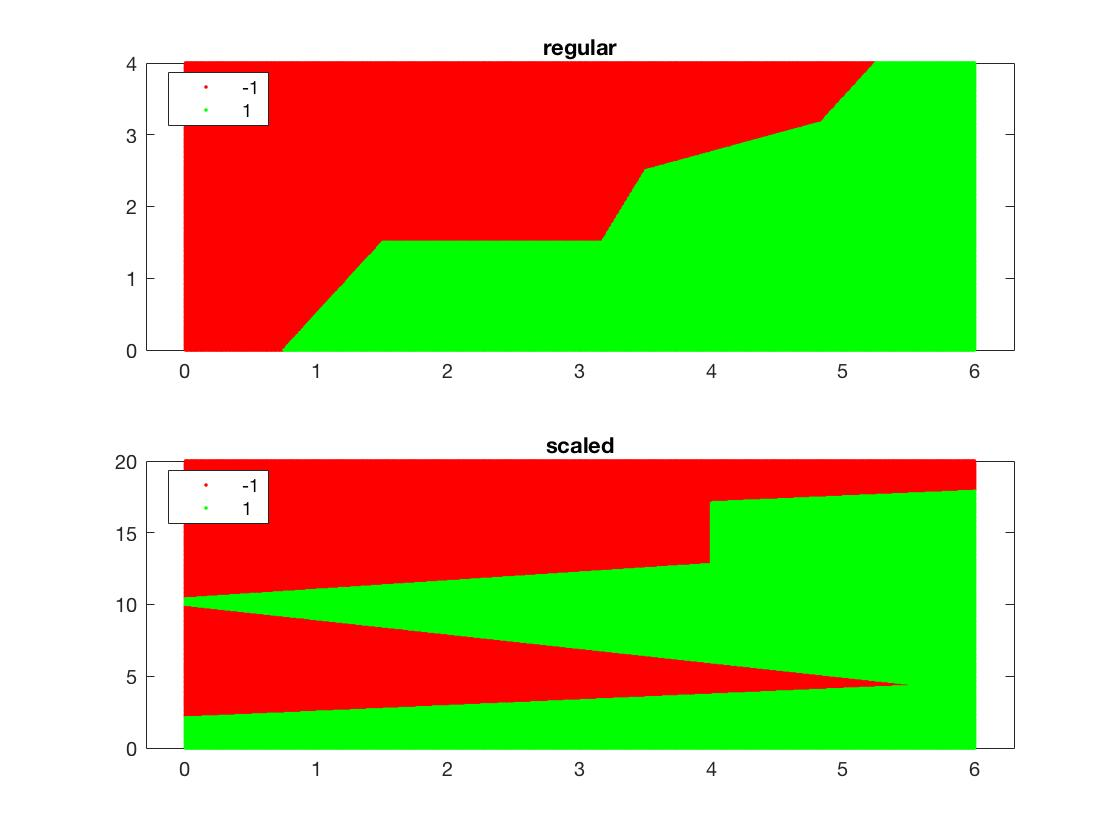
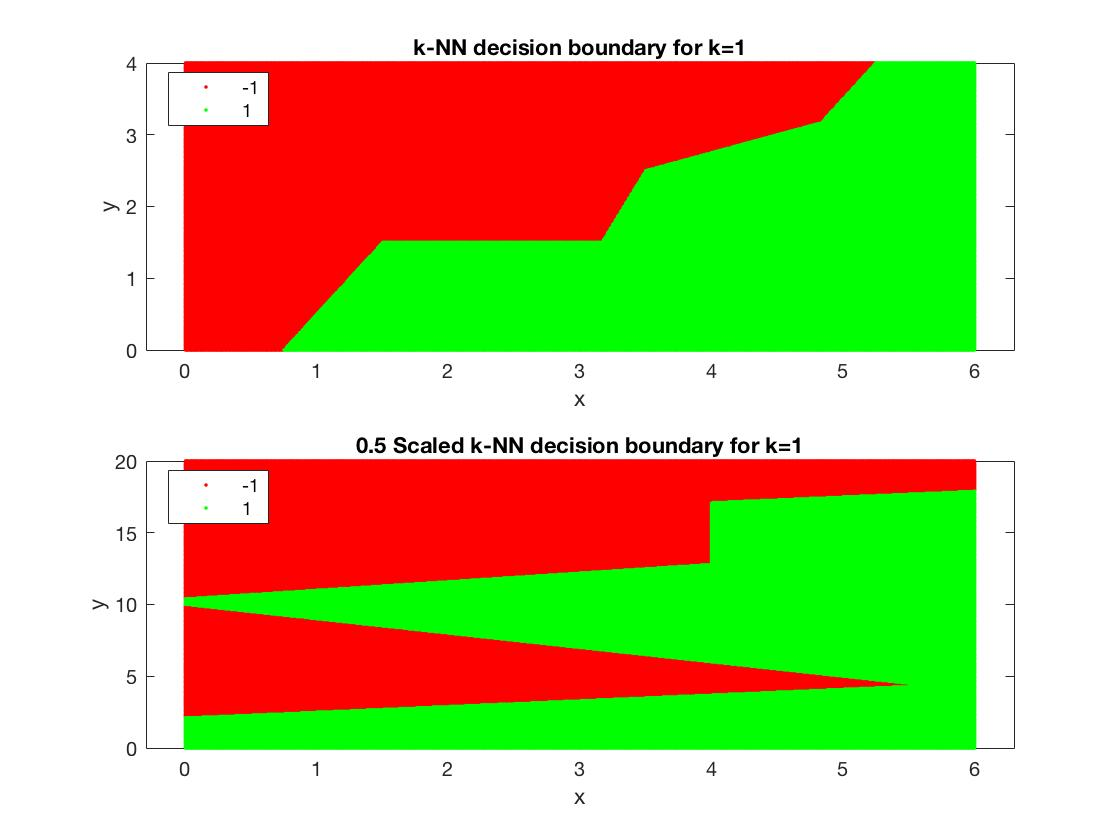
AHHHHHH

Changed region(s): [[0.3125, 0.4952, 0.7188, 0.5571], [0.375, 0.031, 0.6562, 0.0929]]

diff --git a/hw4/HW4.tex b/hw4/HW4.tex
@@ -69,9 +69,9 @@
 \begin{figure}[H]
 \includegraphics[scale=0.4]{image2.jpg} 
 \end{figure}
-\item (c) The differences between 1v3 and 3v5 for the adaboost model is that 1v3 resulted in lower test and training error by a scale of about 0.5.  This may also tie back to how 1v3 is considered easier to learn than 3v5 and therefore performing better. Specifically considering the adaboost algorithm, the training error for 3v5 appears to be on a steeper incline and this may be due to the fact that 3v5 was harder to learn, causing the algorithm to give more weight to inputs that are difficult to predict correctly and resulting in what we see in the plots. 
-\\\\Tying into this we can see that as the number of weak learners increases, the training error for 1v3 appears to remain stable if not very slightly decreasing for later learners as it oscillates. This could probably be attributed to how later learners in general have lower error as the upper bound for error decreases by a factor of 2 at each iteration because of $Z_t$ normalization. On the other hand for 3v5, as the number of weak learner increases, the training error almost appears to increase even for later learners. Going back to how 3v5 is a more difficult problem, it is possible that adaboost had to account for noisier training data which in turn may have resulted in the increased weights of "problem" points and then the mislabeling of good samples, although the use of importance ($\alpha$) may have helped to alleviate this issue.
-As for the generalization of adaboost as the number of weak learners increases, we can observe that it is quite good since the test error very rapidly goes down and appears to almost converge (plateau) before 20 weak learners. This could be due to the nature of using ensemble learning and aggregating the results of more and more weak learners, which naturally perform poorly by themselves, but much better when combined as they "boost" the accuracy of the learning model as bias is reduced. Hence we can expect $E_out$ to be low.
+\item (c) The differences between 1v3 and 3v5 for the adaboost model is that 1v3 resulted in lower test and training error by a scale of about 0.5.  This may also tie back to how 1v3 is considered easier to learn than 3v5 and therefore performing better. Specifically considering the adaboost algorithm, the training error for 3v5 appears to be on a steeper decline and this may be due to the fact that 3v5 was harder to learn, causing the algorithm to give more weight to inputs that are difficult to predict correctly and resulting in what we see in the plots. 
+\\\\Tying into this we can see that as the number of weak learners increases, the training error for 1v3 appears to decreasing for later learners, hitting 0 before 10 learners. This could probably be attributed to how later learners in general have lower error as the upper bound for error decreases by a factor of 2 at each iteration because of $Z_t$ normalization. On the other hand for 3v5, as the number of weak learner increases, the training error takes a while to reach 0. Going back to how 3v5 is a more difficult problem, it is possible that adaboost had to account for noisier training data which in turn may have resulted in the increased weights of "problem" points and then the mislabeling of good samples, although the use of importance ($\alpha$) may have helped to alleviate this issue.
+As for the generalization of adaboost as the number of weak learners increases, we can observe that it is quite good since the test error very rapidly goes down and appears to almost converge (plateau) before 20 weak learners. This could be due to the nature of using ensemble learning and aggregating the results of more and more weak learners, which naturally perform poorly by themselves, but much better when combined as they "boost" the accuracy of the learning model as bias is reduced. Hence we can expect $E_{out}$ to be low.
 
 \end{description}
 
@@ -81,7 +81,7 @@ As for the generalization of adaboost as the number of weak learners increases, 
 \begin{figure}[H]
 \includegraphics[scale=0.4]{image3.jpg} 
 \end{figure}
-	\item (c) 
+	\item (c) Scaling the $x_2$ coordinate by 5 skewed the divide by a lot along the $x_1$ dimension. This put a lot more importance on the $x_1$ dimension of the coordinates, as points which were closer to a point, but separated mostly along the $x_2$ dimension, would get a lot farther away from that point after scaling $x_2$ by 5, but the $x_1$ coordinate remains unchanged. This caused the dividing line to become a lot sharper and “bend” a lot more to the data, which makes the predictor a lot more volatile to small changes in the input data. This is likely not a good effect.
 
 \end{description}
 

diff --git a/hw4/AdaBoost.m b/hw4/AdaBoost.m
@@ -18,34 +18,40 @@ y_te = (y_te == 3) - (y_te ~= 3);
 
 n = size(X_tr,1);
 w = ones(n,1)/n; % init input weights
-train_err = zeros(numTrees,1);
+% train_err = zeros(numTrees,1);
 g = zeros(size(X_te,1),1);
+g_te = zeros(size(X_tr,1),1);
 test_err_v = zeros(numTrees,1);
+train_err_v = zeros(numTrees,1);
 
 for t = 1: numTrees
     % Train weak learner
     t_w = fitctree(X_tr, y_tr, 'Weights', w, 'minparent', n, 'prune', 'off', 'mergeleaves', 'off');
-    
     test = t_w.predict(X_tr) ~= y_tr;
     % Compute weighted training error
-    train_err(t) = w' * test;
+    epsilon = sum(w .* test);
+    
+%     train_err(t) = w' * test;
     
     % Compute importance of h_t
-    a_t = 0.5 * log((1 - train_err(t))/train_err(t));
+    a_t = 0.5 * log((1 - epsilon)/epsilon);
+    z_t = 2 * sqrt(epsilon * (1 - epsilon));
     
-    z_t = 2 * sqrt(train_err(t) * (1 - train_err(t)));
     % update weights
-    w = (w / z_t) .* exp((2 * test - 1) * a_t);
+    w = (w / z_t) .* exp(-a_t .* t_w.predict(X_tr) .* y_tr);
     
 %     for i = 1: size(X_te)
 %         g(i) = g(i) + a_t * t_w.predict(X_te(i,:));
 %     end
     g = g + a_t * t_w.predict(X_te);
-    
+    g_te = g_te + a_t * t_w.predict(X_tr);
+    train_err_v(t) = sum(sign(g_te) ~= y_tr, 1)/n;
     test_err_v(t) = sum(sign(g) ~= y_te, 1)/size(X_te,1);
 end
 
 test_err = test_err_v(numTrees);
+
+train_err = train_err_v(numTrees);
 
 % Plot out-of-bag-error 
 plot(1:numTrees, test_err_v);
@@ -53,10 +59,9 @@ ylabel('Error');
 xlabel('Num Trees (weak learners)');
 
 hold on
-plot(1:numTrees, train_err);
+plot(1:numTrees, train_err_v);
 legend("Test Error", "Training Error");
 hold off
 
-train_err = train_err(size(train_err,1));
 
 end

diff --git a/hw4/knn.m b/hw4/knn.m
@@ -15,8 +15,9 @@ predictions = knn1.predict(locs);
 
 subplot(2,1,1);
 gscatter(xg(:), yg(:), predictions, 'rgb');
-title('regular');
-
+title('k-NN decision boundary for k=1');
+ylabel('y');
+xlabel('x');
 
 X(:,2) = X(:,2) * 5;
 knn2 = fitcknn(X, y, 'NumNeighbors' , 1);
@@ -29,4 +30,6 @@ predictions = knn2.predict(locs);
 
 subplot(2,1,2);
 gscatter(xg(:), yg(:), predictions, 'rgb');
-title('scaled');
+title('0.5 Scaled k-NN decision boundary for k=1');
+ylabel('y');
+xlabel('x');
